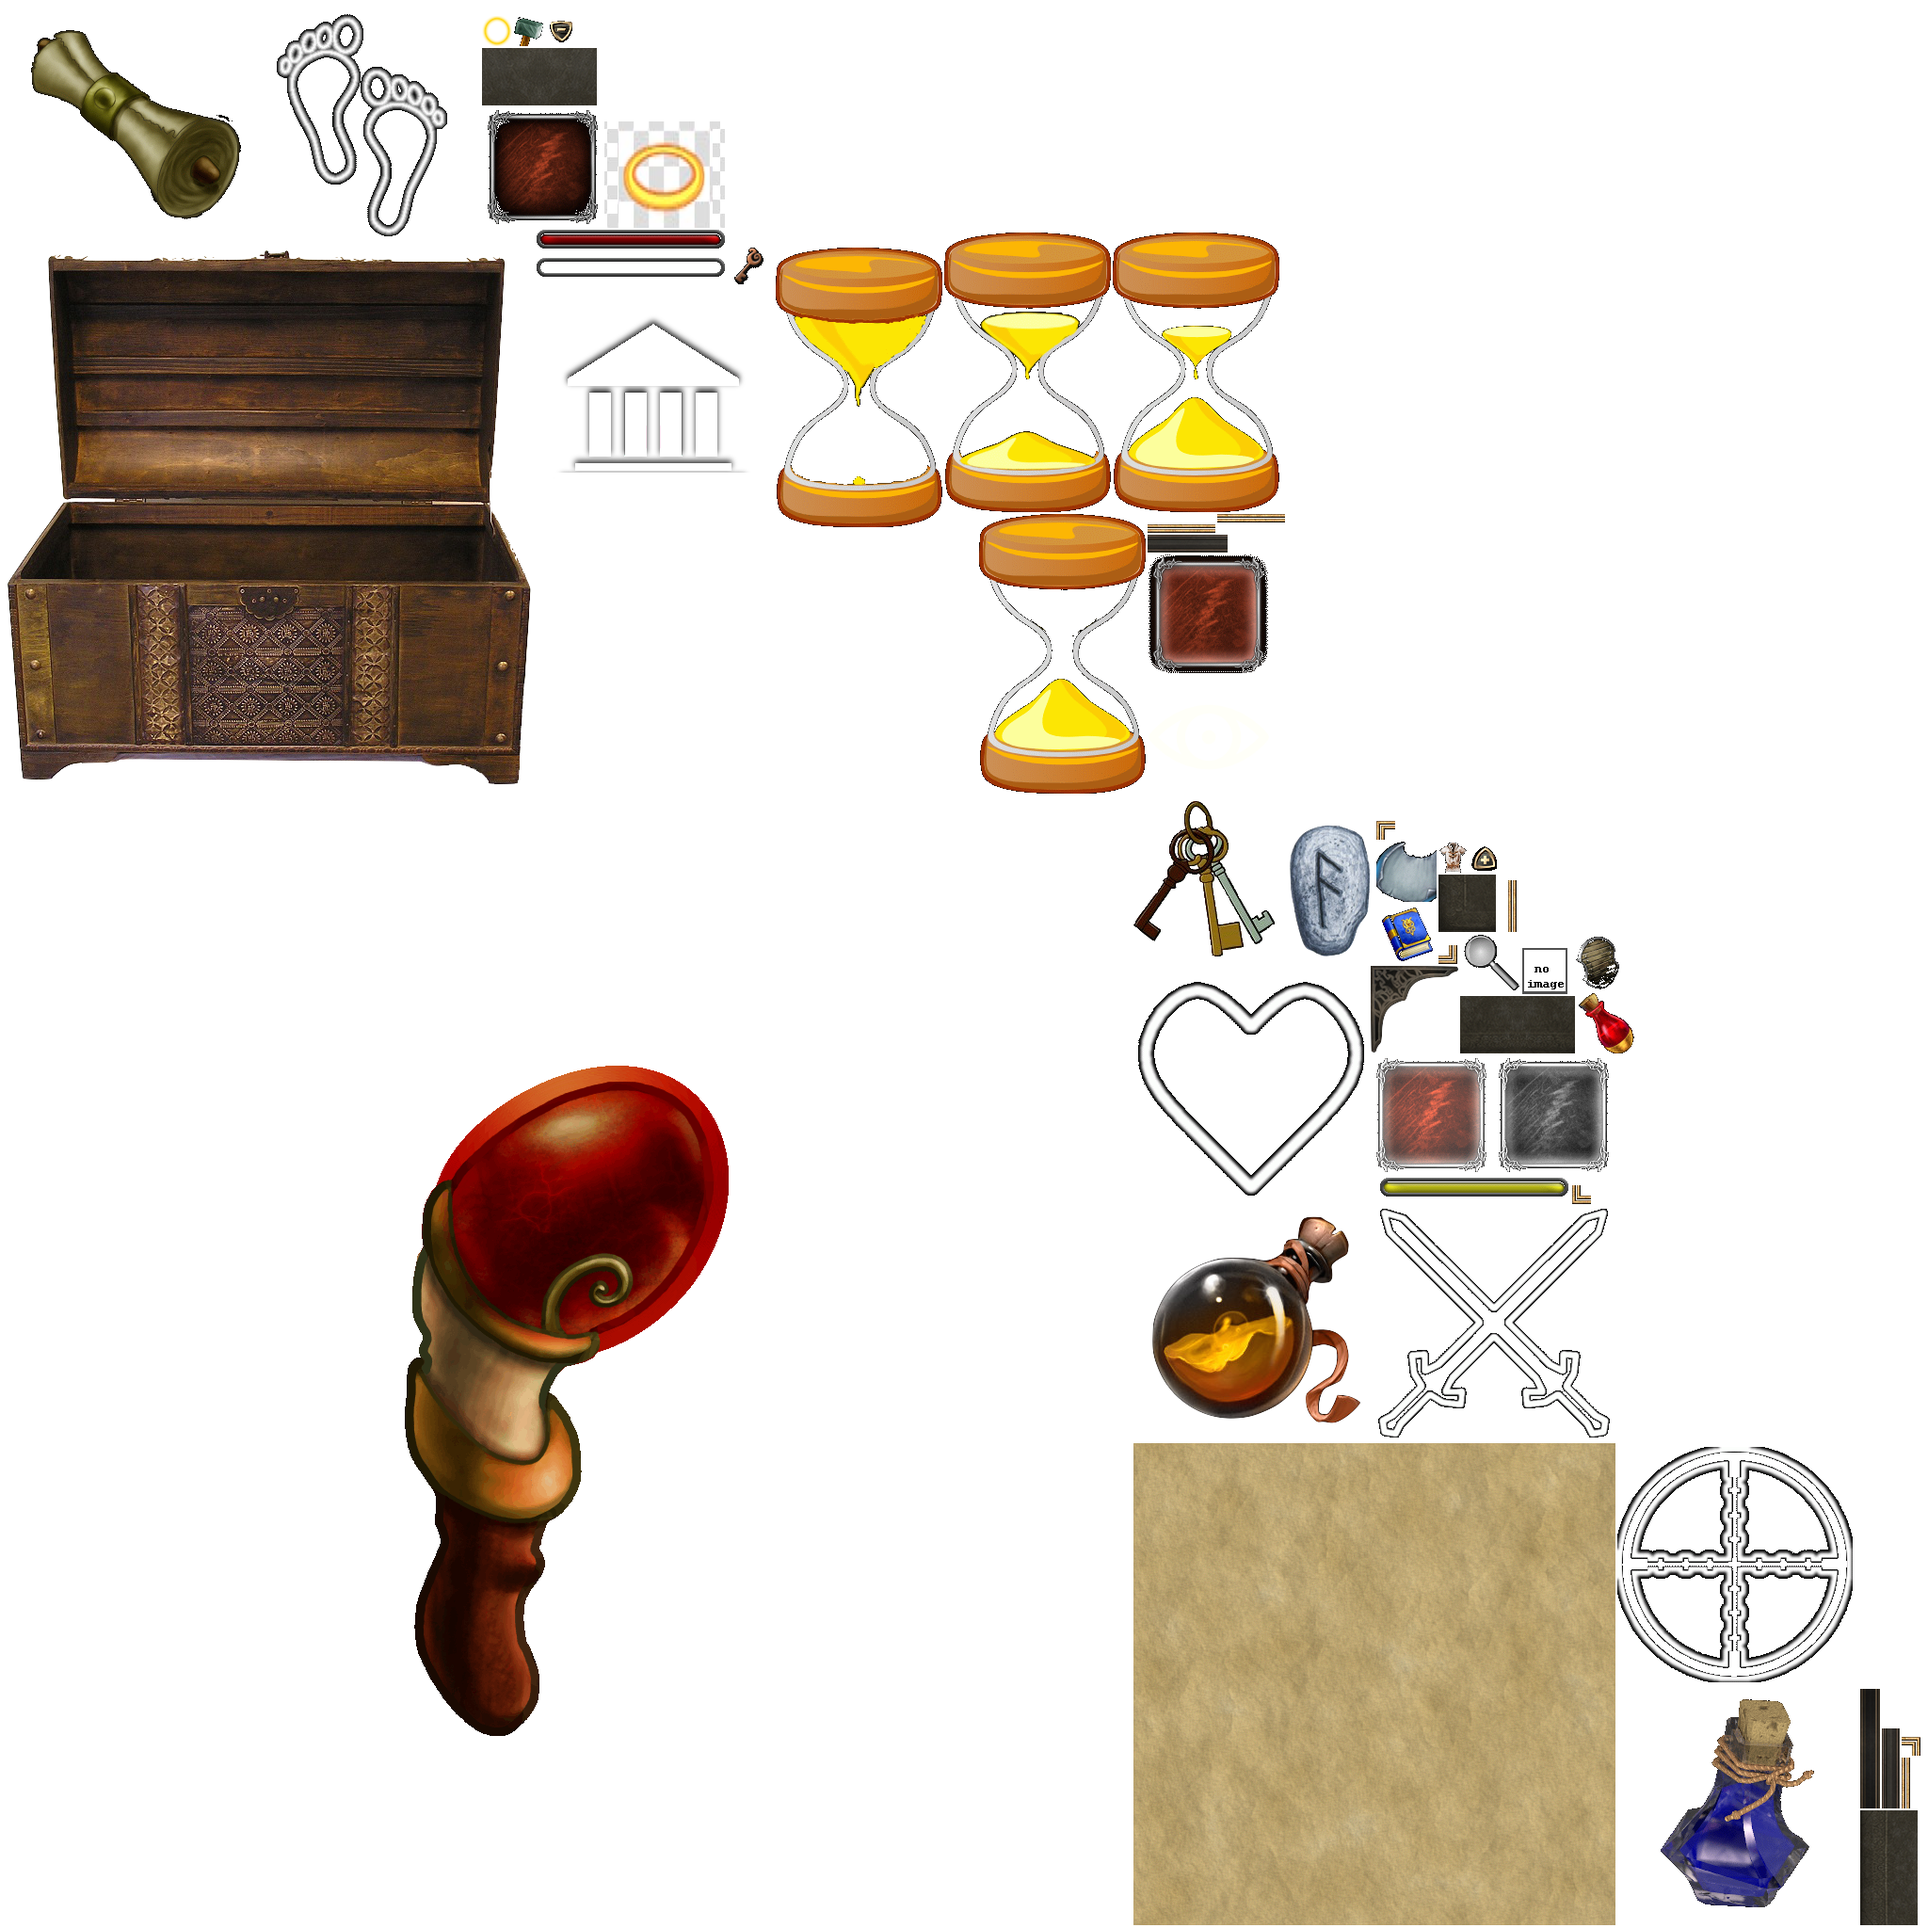
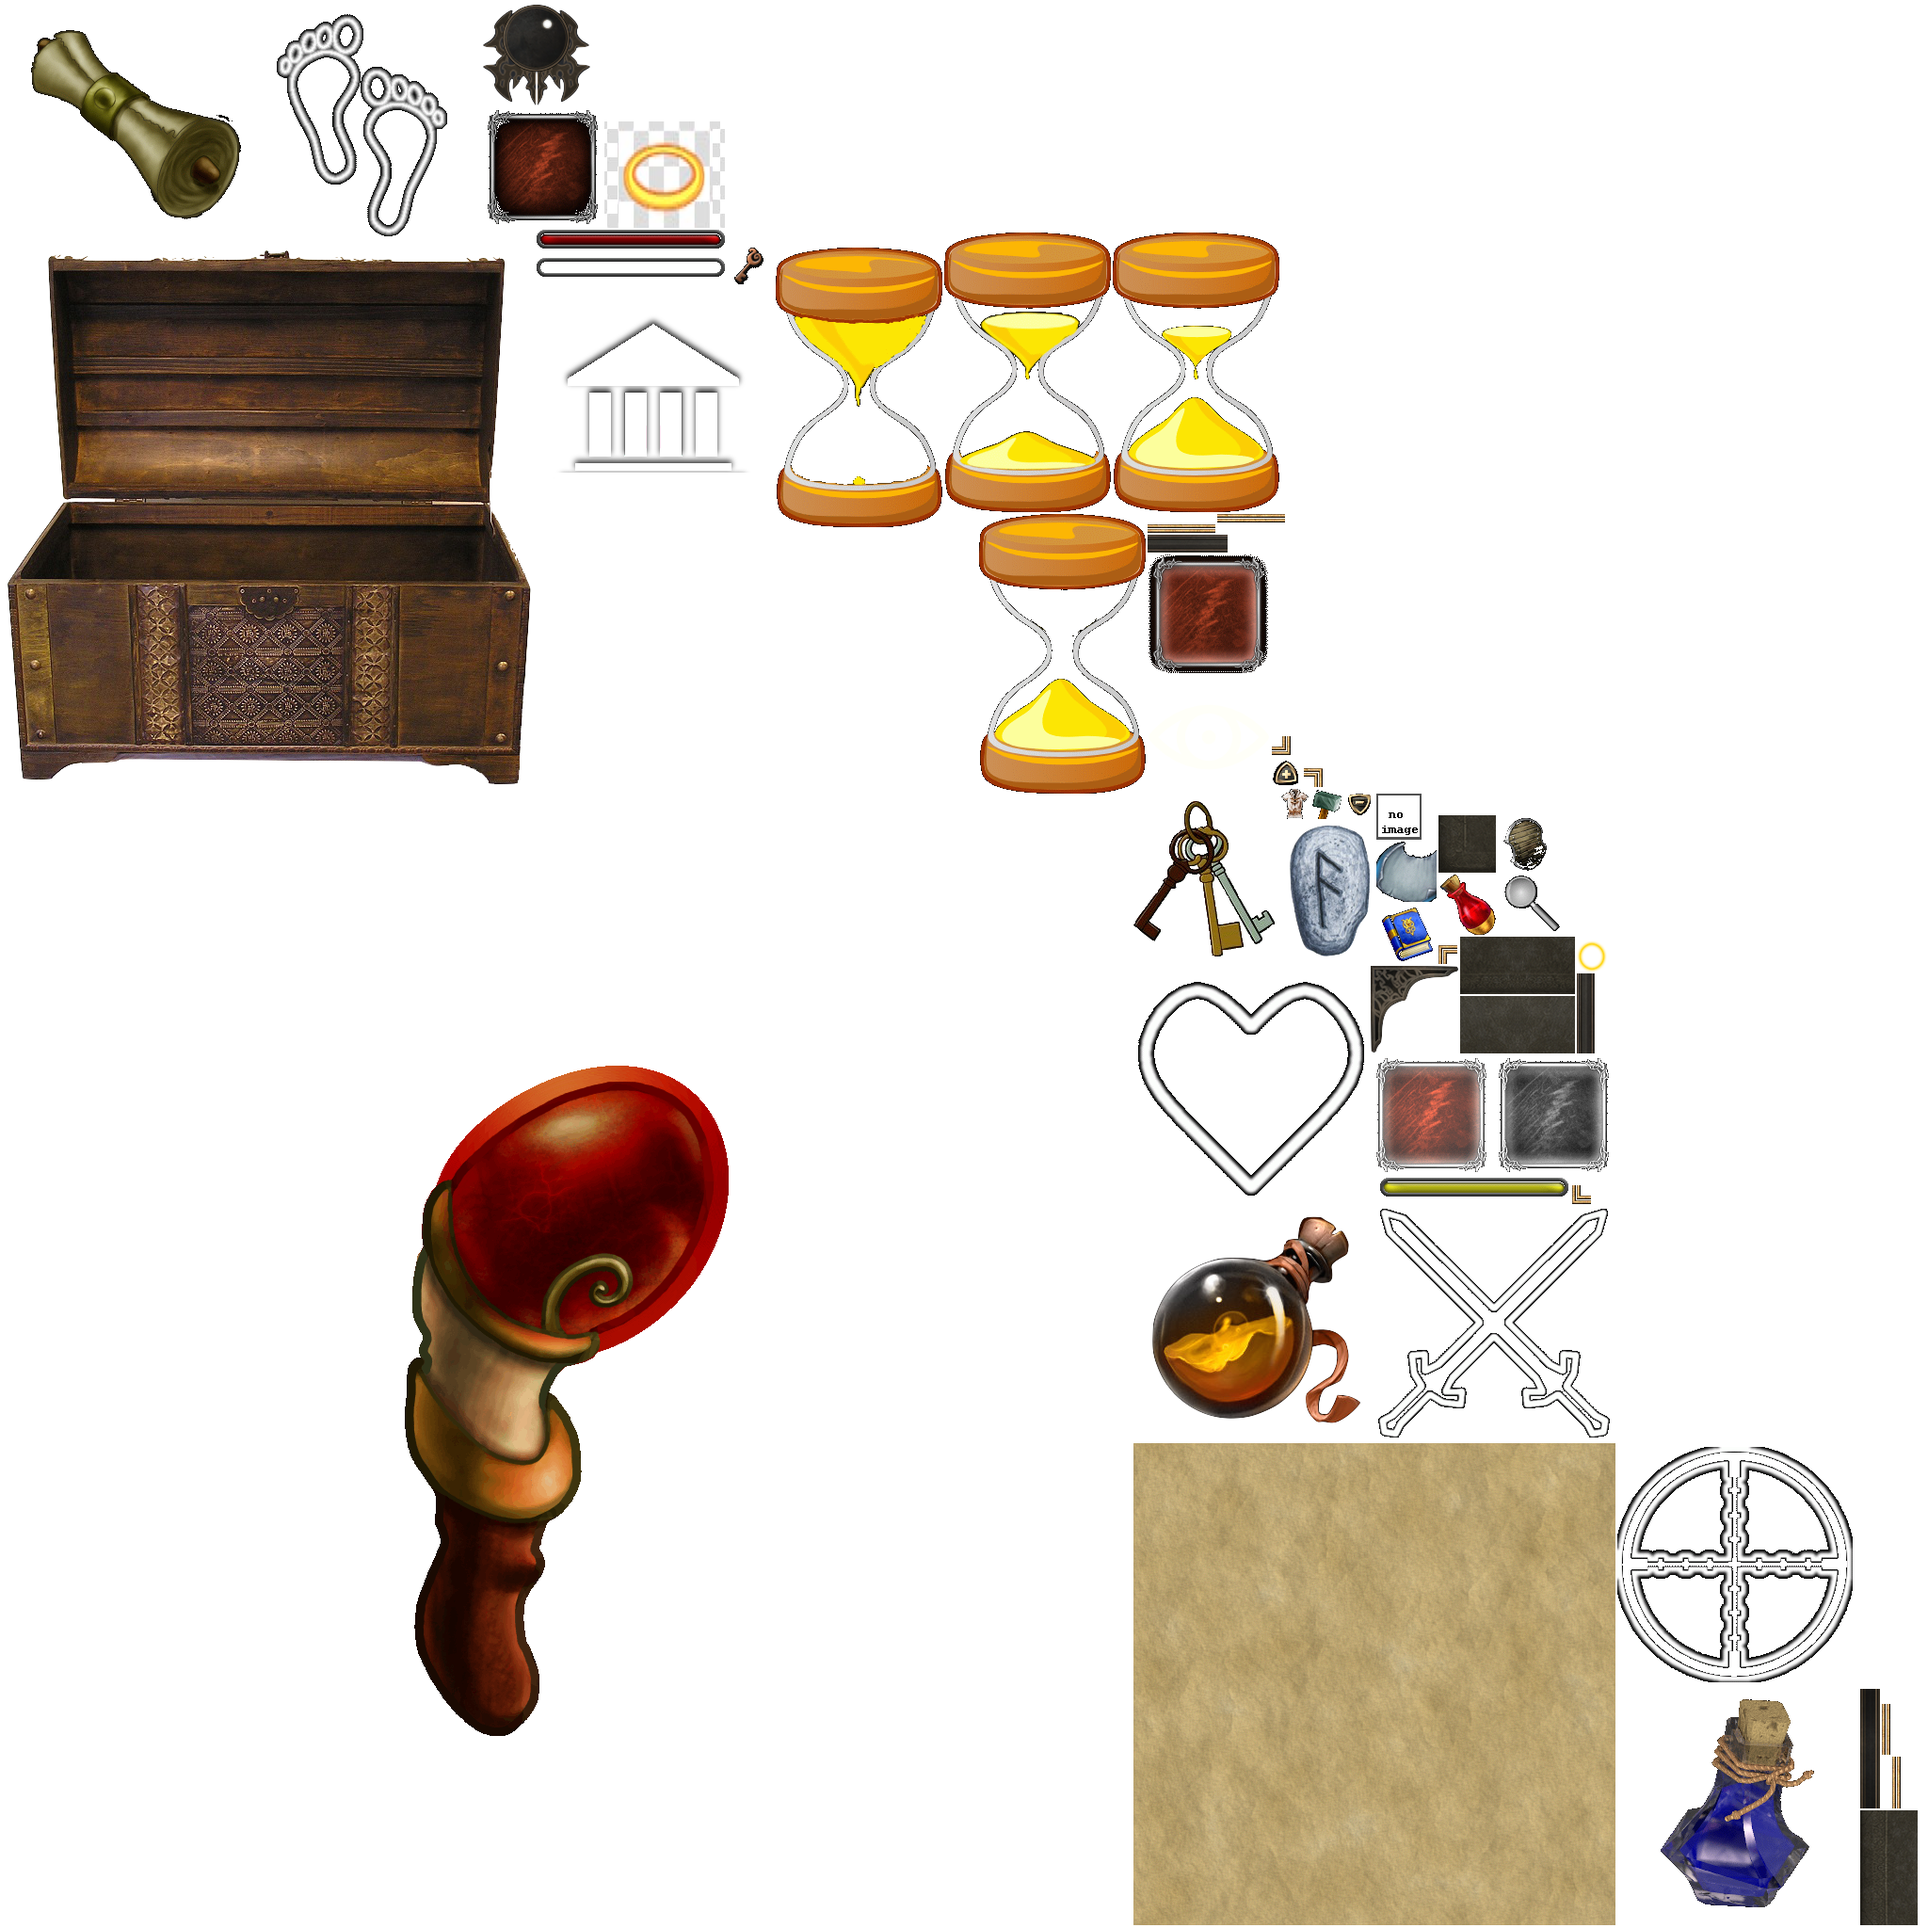
added bubble to InfoPanel

Changed region(s): [[0.6562, 0.375, 0.8438, 0.5625], [0.25, 0.0, 0.3125, 0.0625], [0.9688, 0.875, 1.0, 0.9375]]

diff --git a/Libgdx-Dungeon/src/main/java/de/jdungeon/gui/LibgdxInfoPanel.java b/Libgdx-Dungeon/src/main/java/de/jdungeon/gui/LibgdxInfoPanel.java
@@ -34,9 +34,12 @@ import de.jdungeon.util.PaintBuilder;
  */
 public class LibgdxInfoPanel extends LibgdxSlidingGUIElement {
 
+	private static final String WINDOW_BUBBLE = "win-bubble";
+
 	private final InventoryImageManager inventoryImageManager;
 	private final SkillImageManager skillImageManager;
 	private final GUIImageManager guiImageManager;
+	private final TextureAtlas.AtlasRegion bubble;
 
 	public LibgdxInfoPanel(JDPoint position, JDDimension dimension, GUIImageManager guiImageManager) {
 		super(position, dimension, new JDPoint(position.getX()
@@ -44,6 +47,9 @@ public class LibgdxInfoPanel extends LibgdxSlidingGUIElement {
 		inventoryImageManager = new InventoryImageManager(guiImageManager);
 		skillImageManager = new SkillImageManager(guiImageManager);
 		this.guiImageManager = guiImageManager;
+
+		// init border
+		bubble = Assets.instance.getAtlasRegion(WINDOW_BUBBLE, Assets.instance.getGuiAtlas());
 	}
 
 	private Paragraphable content;
@@ -100,9 +106,18 @@ public class LibgdxInfoPanel extends LibgdxSlidingGUIElement {
 
 		String im = getImage();
 		if (im != null) {
+			int bubbleSizeX = (int) (this.getDimension().getWidth() / 1.5);
+			int bubbleSizeY = (int) (this.getDimension().getHeight() / 2);
+			int bubblePosX = this.getCurrentX() + this.getDimension().getWidth() / 2 - bubbleSizeX / 2;
+			int bubblePosY = this.position.getY() - bubbleSizeY / 4;
+			batch.draw(bubble,  bubblePosX, bubblePosY, 0 , 0 , bubbleSizeX, bubbleSizeY, 1f , 1f, 0);
+
 			TextureAtlas.AtlasRegion atlasRegion = Assets.instance.findTexture(im);
 			if(atlasRegion != null) {
-				batch.draw(atlasRegion, getCurrentX() + 2, position.getY() + 20, 60, 60);
+				int imageSize = (int) (bubbleSizeX / 2.5);
+				int imagePosX = this.getCurrentX()  + this.getDimension().getWidth() / 2 - imageSize / 2;
+				int imagePosY = this.position.getY() - imageSize / 2 + bubbleSizeY / 10;
+				batch.draw(atlasRegion, imagePosX, imagePosY, imageSize, imageSize);
 			}
 		}
 
